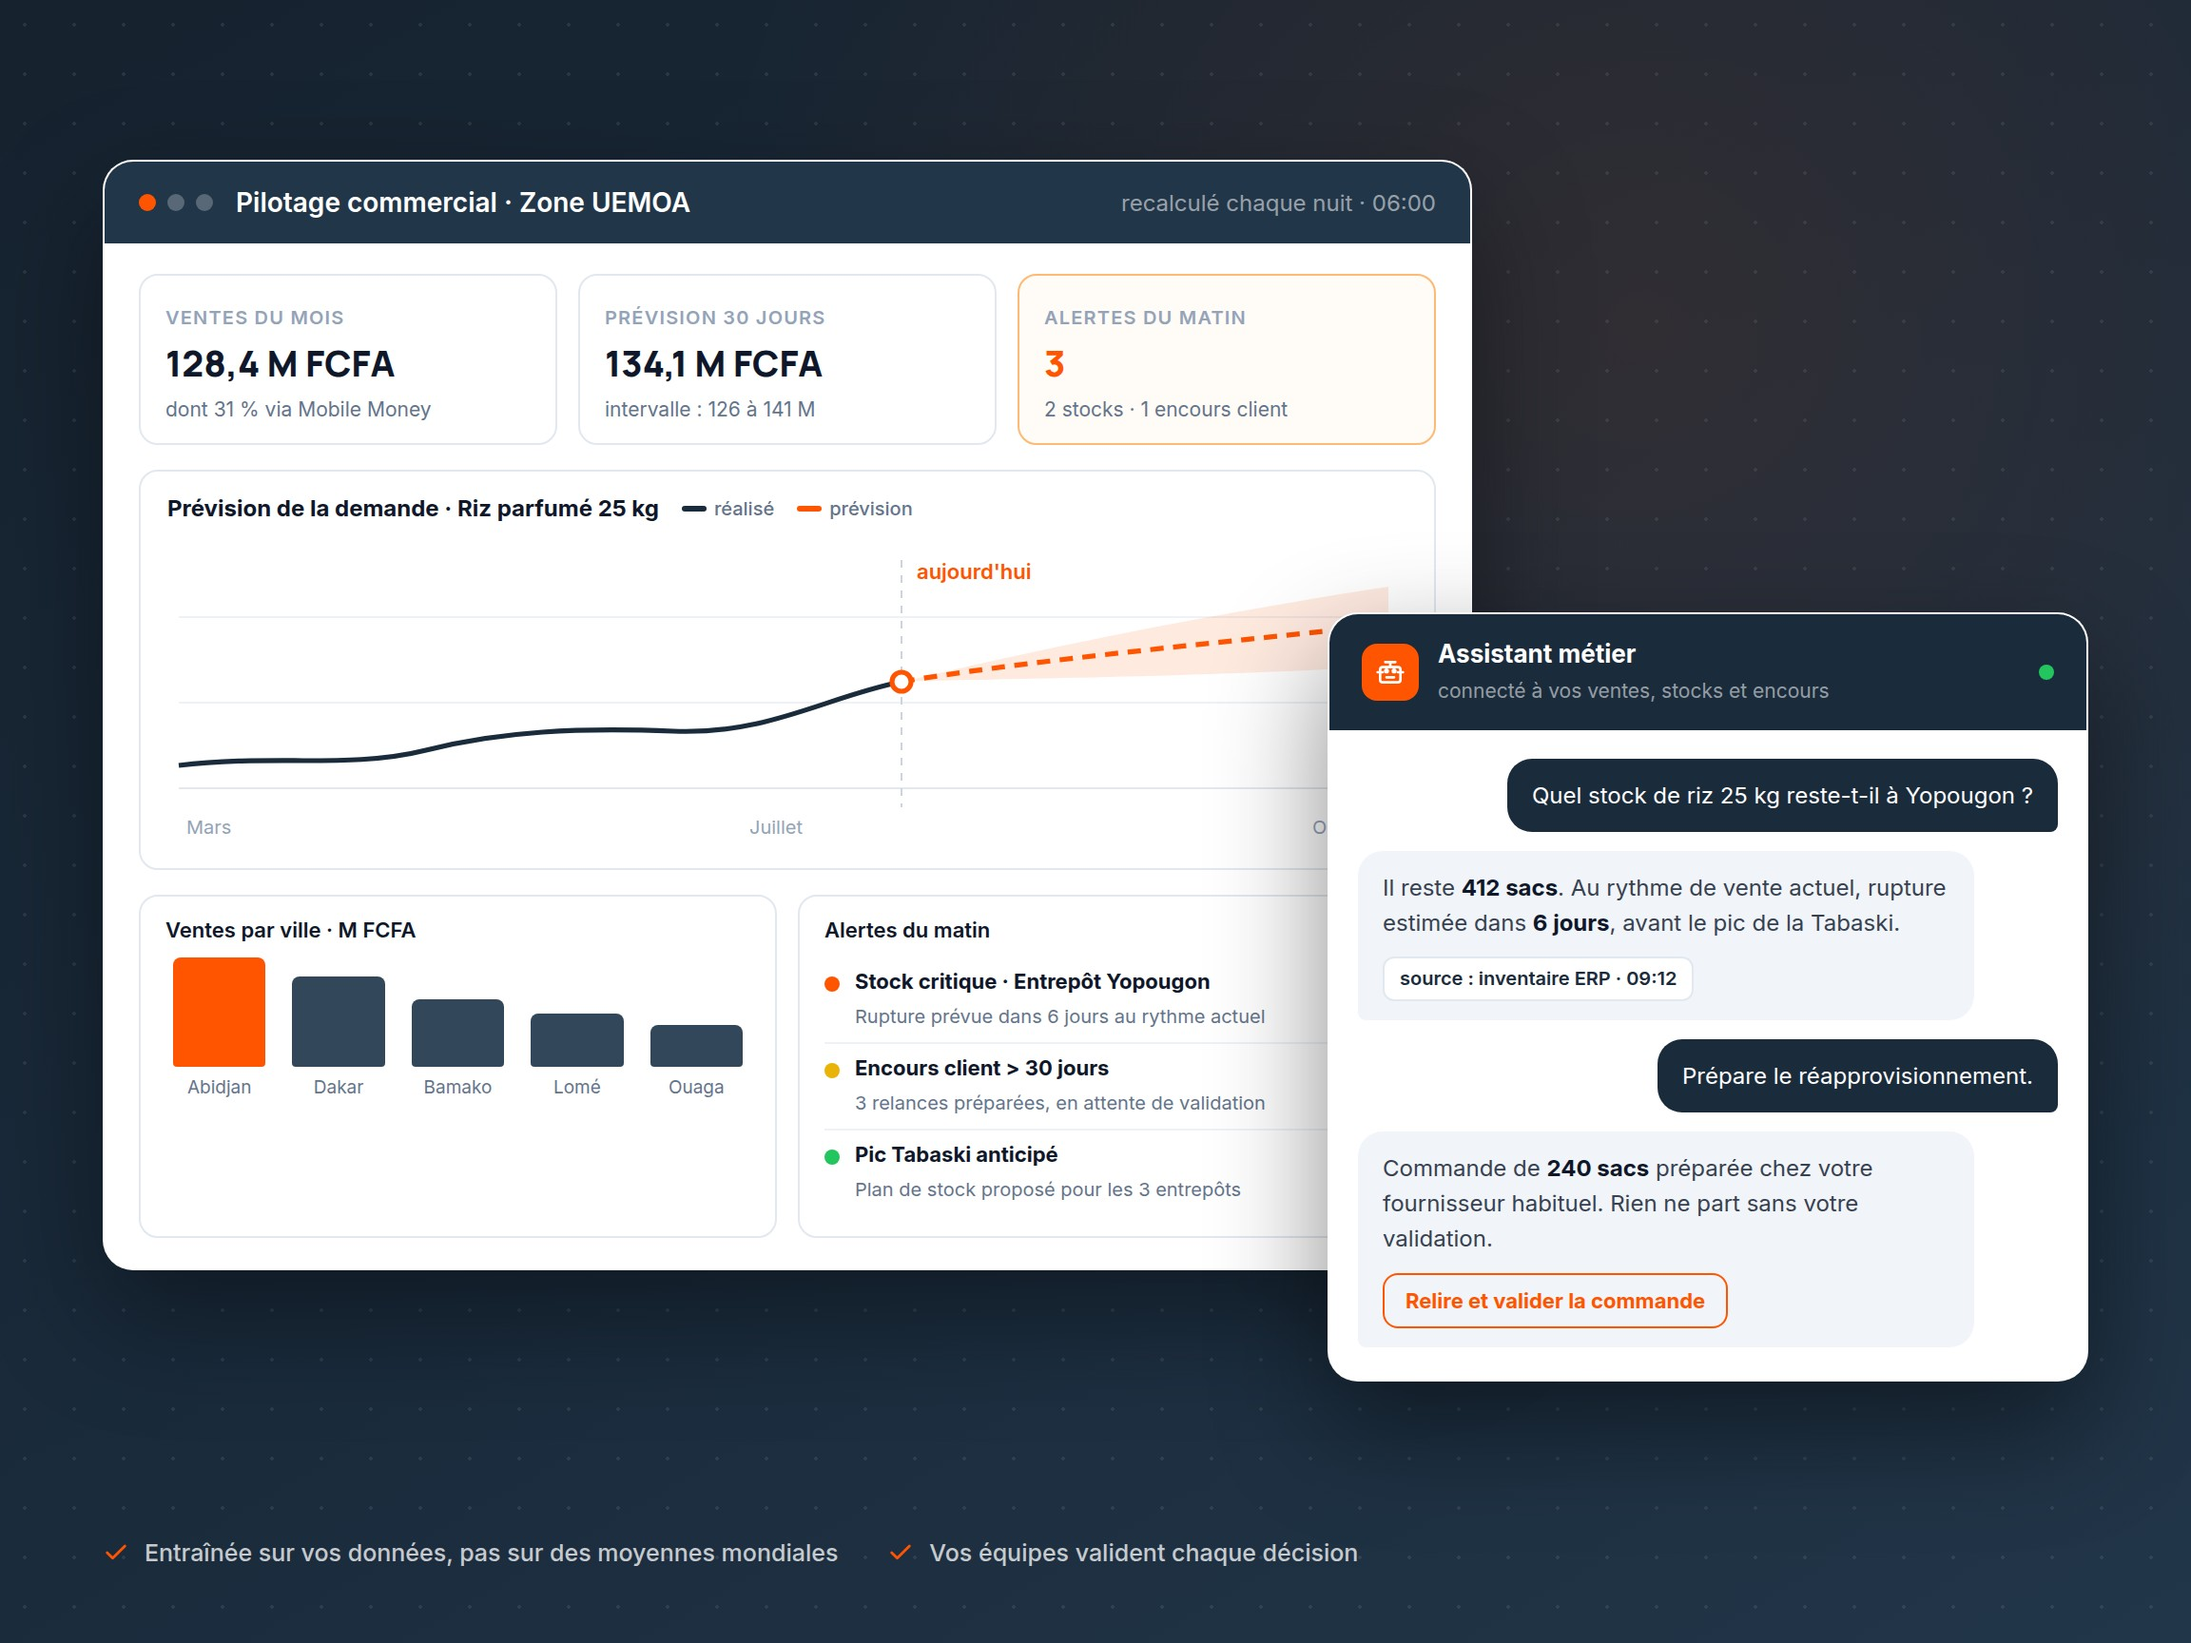
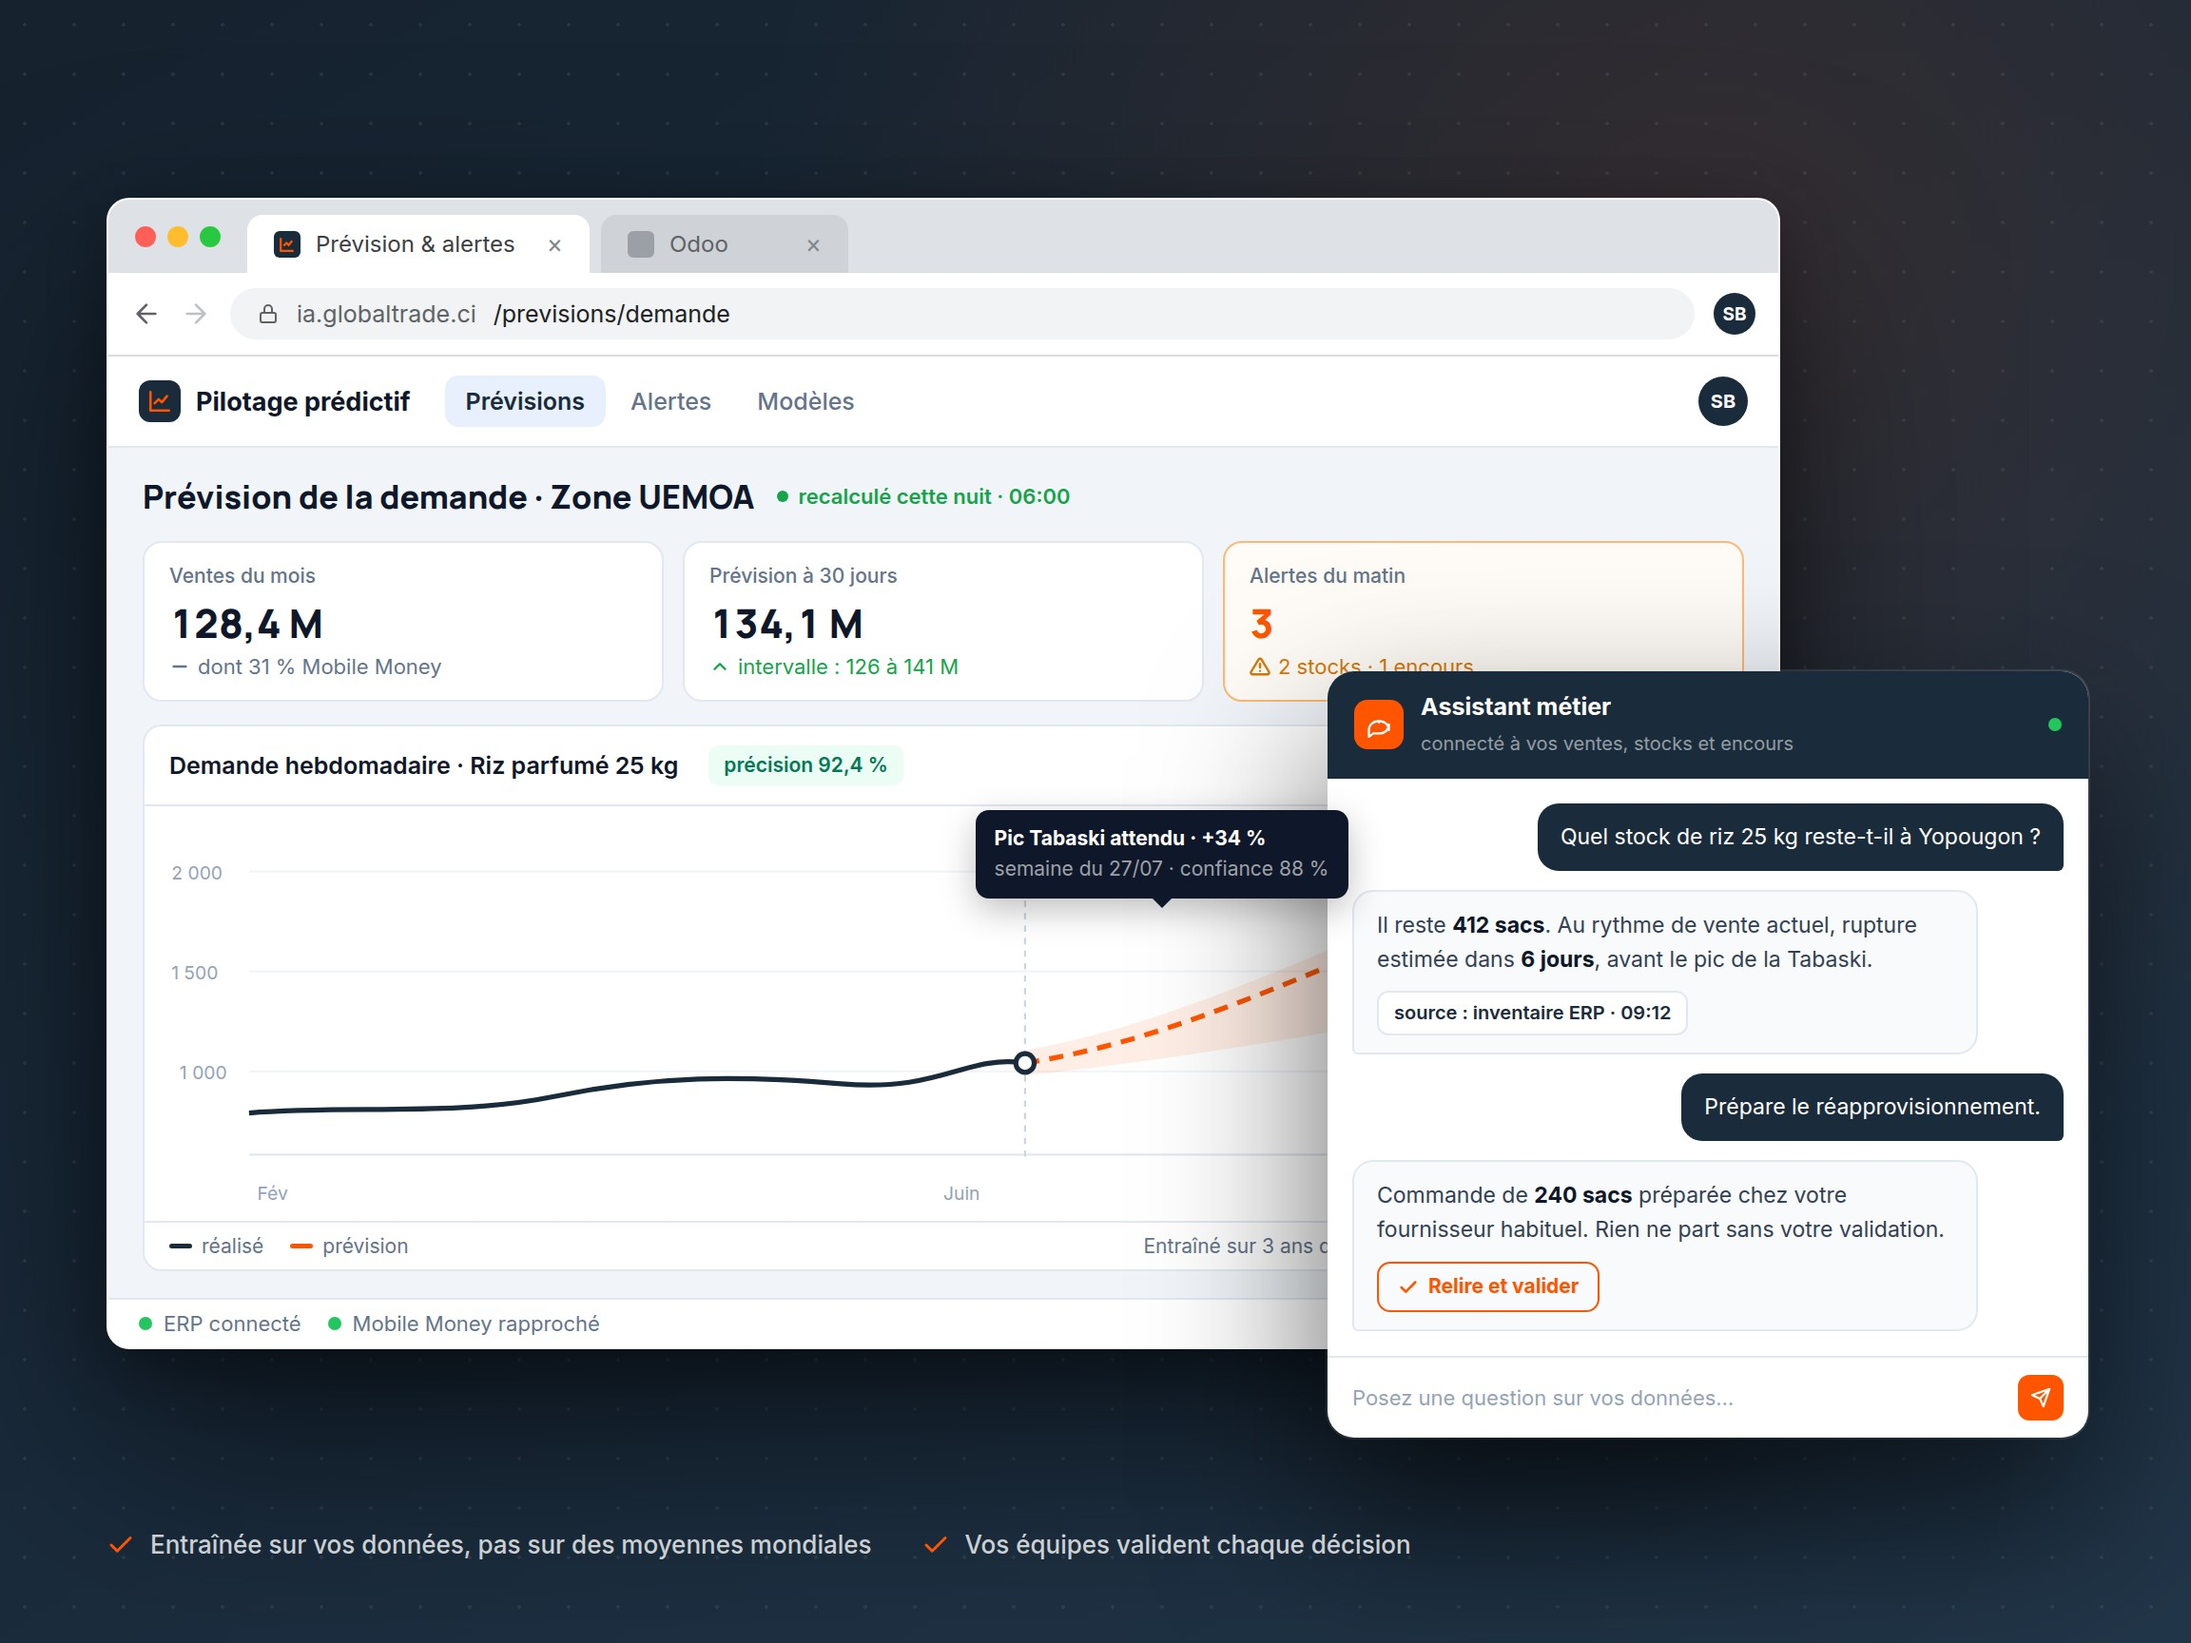
feat(ia): captures logiciel réalistes, alignées sur les 5 autres pages
Les 4 visuels de la page IA passent au même gabarit « capture produit »
que les autres expertises :
- hero : écran de pilotage prédictif (prévision à 30 jours, pic Tabaski)
  avec la fenêtre de l'assistant métier par-dessus
- dialogue : assistant dans le navigateur, réponse chiffrée citant ses
  sources internes, courrier de relance laissé en brouillon
- décision : tableau de bord de prévision avec intervalle de confiance,
  précision du modèle et alertes du matin actionnables
- apprentissage : cycle de vie du modèle, essais d'entraînement comparés
  (le modèle explicable l'emporte sur le plus précis) et contrôles
  validés avant mise en production

Les 6 pages expertises utilisent désormais le même langage visuel.
Textes alt mis à jour en conséquence.

Changed region(s): [[0.0312, 0.0938, 0.9688, 0.9688], [0.0625, 0.3438, 0.1562, 0.4062]]

diff --git a/src/components/ia/IaDomains.tsx b/src/components/ia/IaDomains.tsx
@@ -24,7 +24,7 @@ export default function IaDomains() {
           <div className="mb-12">
             <Image
               src="/ia-images/ia-dialogue.png"
-              alt="Assistant métier connecté aux documents internes : question sur l'encours client, réponse chiffrée citant ses sources, projet de relance soumis à validation humaine"
+              alt="Assistant métier dans le navigateur : à la question sur l’encours de l’agence de Cocody, il répond 4 850 000 FCFA en citant la balance clients et le journal des ventes, puis prépare un courrier de relance qui reste en brouillon tant que l’utilisateur ne l’a pas validé"
               width={1400}
               height={900}
               loading="lazy"
@@ -81,7 +81,7 @@ export default function IaDomains() {
                   <div className="mt-6">
                     <Image
                       src="/ia-images/ia-decision.png"
-                      alt="Tableau de bord de pilotage commercial : ventes du mois, prévision de la demande à 30 jours avec intervalle de confiance, alertes de stock et d'encours, ventes par ville"
+                      alt="Tableau de bord de prévision : demande hebdomadaire réalisée et prévue avec intervalle de confiance, précision du modèle de 92,4 %, alertes du matin sur le stock critique de Yopougon et les encours clients, ventes par ville et répartition des encaissements par canal"
                       width={1400}
                       height={900}
                       loading="lazy"

diff --git a/src/components/ia/IaMethodology.tsx b/src/components/ia/IaMethodology.tsx
@@ -24,7 +24,7 @@ export default function IaMethodology() {
           <div className="mb-16">
             <Image
               src="/ia-images/ia-apprentissage.png"
-              alt="Les cinq étapes, de vos données brutes à la décision quotidienne : nettoyage et structuration, entraînement du modèle, validation métier, mise en production"
+              alt="Cycle de vie du modèle : les cinq étapes de vos données brutes à la décision quotidienne, le tableau comparatif des essais d’entraînement où le modèle explicable l’emporte sur le plus précis, et les quatre contrôles validés avant mise en production dont la recette par les équipes commerciales"
               width={1400}
               height={900}
               loading="lazy"

diff --git a/src/components/ia/IaHero.tsx b/src/components/ia/IaHero.tsx
@@ -40,7 +40,7 @@ export default function IaHero() {
       <div className="mt-14 hidden sm:block">
         <Image
           src="/ia-images/ia-hero.jpg"
-          alt="Tableau de bord de pilotage commercial zone UEMOA avec prévision de la demande, ventes par ville et alertes, accompagné d'un assistant métier qui répond en français sur les stocks"
+          alt="Écran de pilotage prédictif zone UEMOA : prévision de la demande à 30 jours avec intervalle de confiance et pic de la Tabaski anticipé, à côté de l’assistant métier qui indique le stock restant à Yopougon et prépare un réapprovisionnement soumis à validation"
           width={2304}
           height={1728}
           loading="eager"
